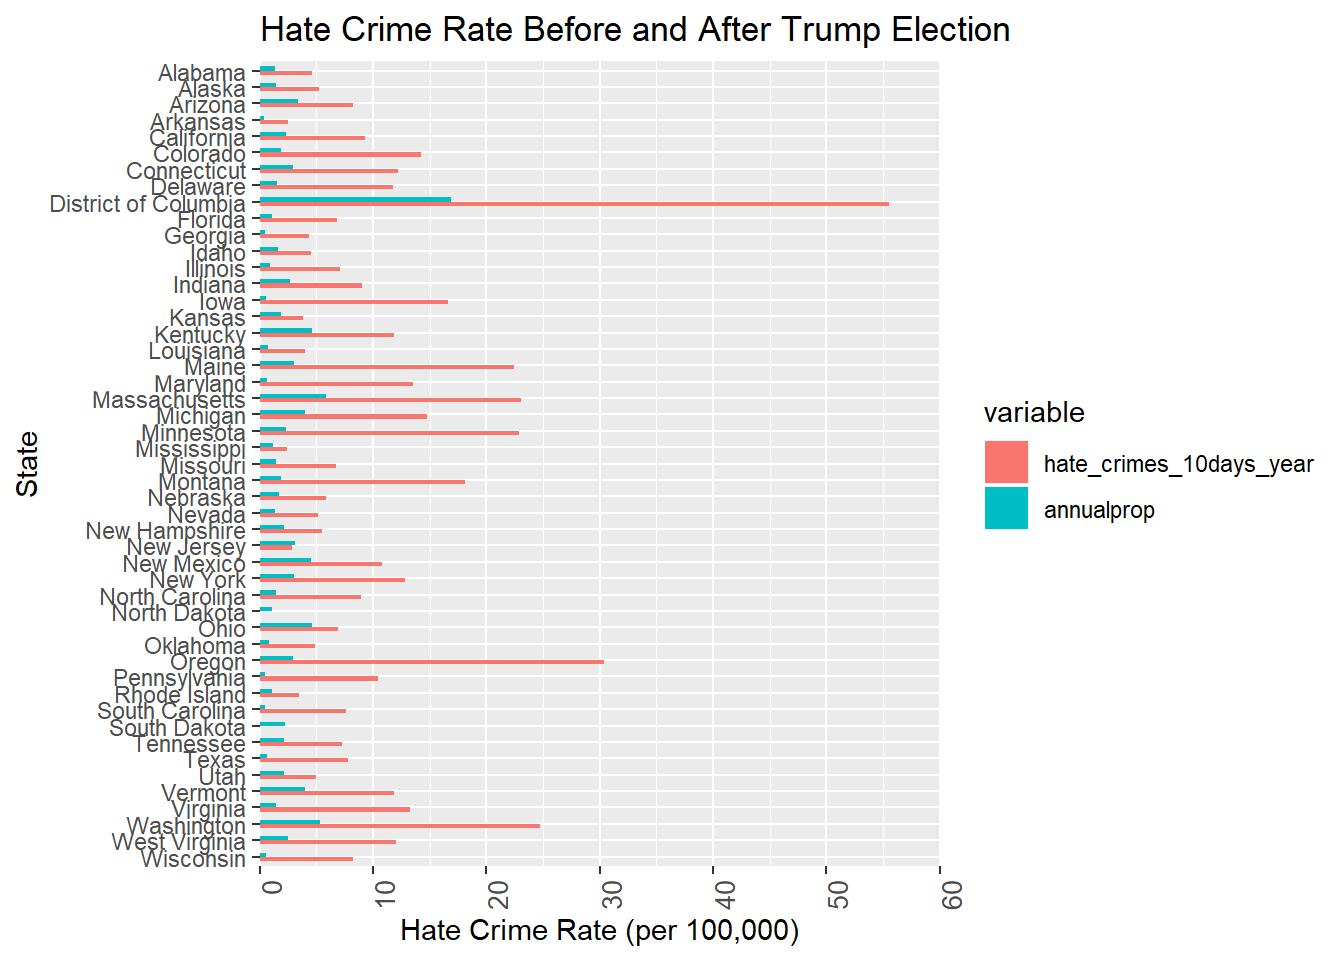
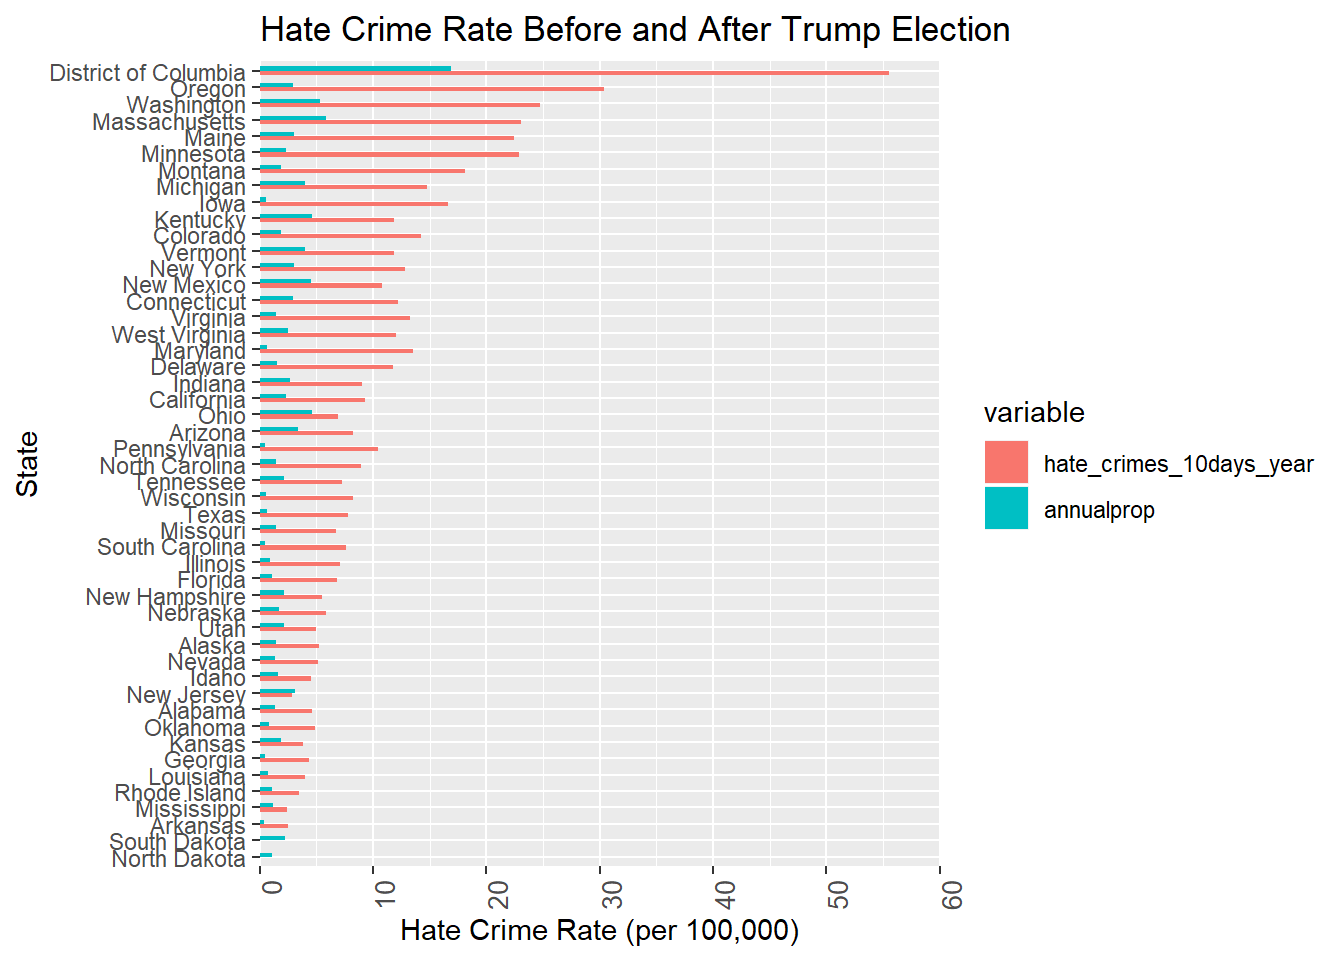
reorder the plot

Changed region(s): [[0.0312, 0.0625, 0.6562, 0.9062], [0.2188, 0.3125, 0.375, 0.5312], [0.2188, 0.6875, 0.4375, 0.7188]]

diff --git a/voting.html b/voting.html
@@ -235,8 +235,8 @@ $(document).ready(function () {
 <p><img src="voting_files/figure-html/unnamed-chunk-4-1.png" width="672" style="display: block; margin: auto;" /></p>
 <p>The plot above compares the hate crime rates before and after Trump’s election. The green portion depicts the rate for 2016. The red bar represents the hate crime rate in the 10 days after Trump’s election, extrapolated into a year rate (for comparison purposes). As can be seen by the plot, the hate crime rate increased substantially in the days after Trump’s election for most states. D.C. experienced the greatest increase, most likely due to the fact that D.C. is the political hub in the U.S.</p>
 <p><br></p>
-<div id="htmlwidget-f534f4e70c72b21dff35" style="width:672px;height:480px;" class="plotly html-widget"></div>
-<script type="application/json" data-for="htmlwidget-f534f4e70c72b21dff35">{"x":{"visdat":{"4dc5e2d55a4":["function () ","plotlyVisDat"]},"cur_data":"4dc5e2d55a4","attrs":{"4dc5e2d55a4":{"locationmode":"USA-states","alpha_stroke":1,"sizes":[10,100],"spans":[1,20],"z":{},"text":{},"locations":{},"color":{},"colors":"Reds","marker":{"line":{"color":"rgba(190,190,190,1)","width":1}},"inherit":true}},"layout":{"margin":{"b":40,"l":60,"t":25,"r":10},"mapType":"geo","scene":{"zaxis":{"title":"crime_rate"}},"geo":{"domain":{"x":[0,1],"y":[0,1]},"scope":"usa","projection":{"type":"albers usa"},"showlakes":false},"hovermode":"closest","showlegend":false,"legend":{"yanchor":"top","y":0.5},"title":"Hate crime rate in 2016 all over U.S. "},"source":"A","config":{"modeBarButtonsToAdd":[{"name":"Collaborate","icon":{"width":1000,"ascent":500,"descent":-50,"path":"M487 375c7-10 9-23 5-36l-79-259c-3-12-11-23-22-31-11-8-22-12-35-12l-263 0c-15 0-29 5-43 15-13 10-23 23-28 37-5 13-5 25-1 37 0 0 0 3 1 7 1 5 1 8 1 11 0 2 0 4-1 6 0 3-1 5-1 6 1 2 2 4 3 6 1 2 2 4 4 6 2 3 4 5 5 7 5 7 9 16 13 26 4 10 7 19 9 26 0 2 0 5 0 9-1 4-1 6 0 8 0 2 2 5 4 8 3 3 5 5 5 7 4 6 8 15 12 26 4 11 7 19 7 26 1 1 0 4 0 9-1 4-1 7 0 8 1 2 3 5 6 8 4 4 6 6 6 7 4 5 8 13 13 24 4 11 7 20 7 28 1 1 0 4 0 7-1 3-1 6-1 7 0 2 1 4 3 6 1 1 3 4 5 6 2 3 3 5 5 6 1 2 3 5 4 9 2 3 3 7 5 10 1 3 2 6 4 10 2 4 4 7 6 9 2 3 4 5 7 7 3 2 7 3 11 3 3 0 8 0 13-1l0-1c7 2 12 2 14 2l218 0c14 0 25-5 32-16 8-10 10-23 6-37l-79-259c-7-22-13-37-20-43-7-7-19-10-37-10l-248 0c-5 0-9-2-11-5-2-3-2-7 0-12 4-13 18-20 41-20l264 0c5 0 10 2 16 5 5 3 8 6 10 11l85 282c2 5 2 10 2 17 7-3 13-7 17-13z m-304 0c-1-3-1-5 0-7 1-1 3-2 6-2l174 0c2 0 4 1 7 2 2 2 4 4 5 7l6 18c0 3 0 5-1 7-1 1-3 2-6 2l-173 0c-3 0-5-1-8-2-2-2-4-4-4-7z m-24-73c-1-3-1-5 0-7 2-2 3-2 6-2l174 0c2 0 5 0 7 2 3 2 4 4 5 7l6 18c1 2 0 5-1 6-1 2-3 3-5 3l-174 0c-3 0-5-1-7-3-3-1-4-4-5-6z"},"click":"function(gd) { \n        // is this being viewed in RStudio?\n        if (location.search == '?viewer_pane=1') {\n          alert('To learn about plotly for collaboration, visit:\\n https://cpsievert.github.io/plotly_book/plot-ly-for-collaboration.html');\n        } else {\n          window.open('https://cpsievert.github.io/plotly_book/plot-ly-for-collaboration.html', '_blank');\n        }\n      }"}],"cloud":false},"data":[{"colorbar":{"title":"Hate crime rate ","ticklen":2,"len":0.5,"lenmode":"fraction","y":1,"yanchor":"top"},"colorscale":[["0","rgba(255,245,240,1)"],["0.0276381501808651","rgba(255,240,233,1)"],["0.0291350844947359","rgba(255,240,233,1)"],["0.0331604121426014","rgba(255,239,232,1)"],["0.0368979147901257","rgba(255,239,231,1)"],["0.0462814299368298","rgba(255,237,229,1)"],["0.0578460434229595","rgba(255,235,226,1)"],["0.0656081980995609","rgba(255,234,224,1)"],["0.0781357869275092","rgba(255,232,221,1)"],["0.0848442765868411","rgba(255,231,220,1)"],["0.0863228382646843","rgba(255,230,219,1)"],["0.0928963955658705","rgba(254,229,218,1)"],["0.0994352614608665","rgba(254,228,216,1)"],["0.112143104206994","rgba(254,226,213,1)"],["0.126997908109786","rgba(254,223,209,1)"],["0.13139983231937","rgba(254,222,207,1)"],["0.137574915231338","rgba(254,220,205,1)"],["0.154340895505053","rgba(254,215,198,1)"],["0.174590813352765","rgba(254,209,190,1)"],["0.178296121547066","rgba(254,208,189,1)"],["0.194468249085437","rgba(254,203,183,1)"],["0.239264076066464","rgba(252,190,165,1)"],["0.272379802797908","rgba(252,180,152,1)"],["0.311517159113247","rgba(253,167,138,1)"],["1","rgba(103,0,13,1)"]],"showscale":true,"locationmode":"USA-states","z":[1.3808898651561,1.48937264916067,3.34805113558664,0.420514815262585,2.37241981189183,1.88413647670102,2.96383119359633,1.57552267964897,16.8827165024884,1.06807949849217,0.474675629191675,0,1.60414463443326,0.897081333757898,2.71343987643412,0.545959163539177,1.89091504080132,4.65270703981678,0.730244567331498,3.00417806063783,0.614980901518787,5.89066918001885,4.05170339094064,2.29774753161092,1.19565328787573,1.44502572063679,1.91929738361381,1.67873732959462,1.39453031198704,2.19578565995122,3.15335468296094,4.50639387962382,3.01436916852553,1.45875512794317,1.05611537004302,4.61693441404417,0.852912632023768,2.93130321795085,0.482428071556262,1.13590540179814,0.465873547335386,2.28618749023607,2.13495501709919,0.638849301766425,2.18964298866362,4.00260008901783,1.45040839696109,5.3143966868925,2.52873194577905,0.601473858619324,0.539135873022719],"text":["Alabama <br> share for trump 59.90%","Alaska <br> share for trump 54.20%","Arizona <br> share for trump 52.70%","Arkansas <br> share for trump 60.10%","California <br> share for trump 36.40%","Colorado <br> share for trump 45.70%","Connecticut <br> share for trump 40.30%","Delaware <br> share for trump 39.40%","District of Columbia <br> share for trump 7.40%","Florida <br> share for trump 48.30%","Georgia <br> share for trump 52.20%","Hawaii <br> share for trump 33.1%","Idaho <br> share for trump 64.10%","Illinois <br> share for trump 40.20%","Indiana <br> share for trump 53.70%","Iowa <br> share for trump 46.00%","Kansas <br> share for trump 59.40%","Kentucky <br> share for trump 60.20%","Louisiana <br> share for trump 57.10%","Maine <br> share for trump 40.70%","Maryland <br> share for trump 35.10%","Massachusetts <br> share for trump 37.20%","Michigan <br> share for trump 44.60%","Minnesota <br> share for trump 44.50%","Mississippi <br> share for trump 54.40%","Missouri <br> share for trump 53.50%","Montana <br> share for trump 55.20%","Nebraska <br> share for trump 59.30%","Nevada <br> share for trump 44.70%","New Hampshire <br> share for trump 46.30%","New Jersey <br> share for trump 39.70%","New Mexico <br> share for trump 42.20%","New York <br> share for trump 34.60%","North Carolina <br> share for trump 49.80%","North Dakota <br> share for trump 57.90%","Ohio <br> share for trump 47.40%","Oklahoma <br> share for trump 66.10%","Oregon <br> share for trump 41.80%","Pennsylvania <br> share for trump 46.30%","Rhode Island <br> share for trump 35.10%","South Carolina <br> share for trump 54.50%","South Dakota <br> share for trump 57.40%","Tennessee <br> share for trump 59.00%","Texas <br> share for trump 56.10%","Utah <br> share for trump 72.10%","Vermont <br> share for trump 31.10%","Virginia <br> share for trump 46.60%","Washington <br> share for trump 40.90%","West Virginia <br> share for trump 62.00%","Wisconsin <br> share for trump 45.60%","Wyoming <br> share for trump 67.80%"],"locations":["AL","AK","AZ","AR","CA","CO","CT","DE","DC","FL","GA","HI","ID","IL","IN","IA","KS","KY","LA","ME","MD","MA","MI","MN","MS","MO","MT","NE","NV","NH","NJ","NM","NY","NC","ND","OH","OK","OR","PA","RI","SC","SD","TN","TX","UT","VT","VA","WA","WV","WI","WY"],"marker":{"line":{"colorbar":{"title":"","ticklen":2},"cmin":0,"cmax":16.8827165024884,"colorscale":[["0","rgba(255,245,240,1)"],["0.0276381501808651","rgba(255,240,233,1)"],["0.0291350844947359","rgba(255,240,233,1)"],["0.0331604121426014","rgba(255,239,232,1)"],["0.0368979147901257","rgba(255,239,231,1)"],["0.0462814299368298","rgba(255,237,229,1)"],["0.0578460434229595","rgba(255,235,226,1)"],["0.0656081980995609","rgba(255,234,224,1)"],["0.0781357869275092","rgba(255,232,221,1)"],["0.0848442765868411","rgba(255,231,220,1)"],["0.0863228382646843","rgba(255,230,219,1)"],["0.0928963955658705","rgba(254,229,218,1)"],["0.0994352614608665","rgba(254,228,216,1)"],["0.112143104206994","rgba(254,226,213,1)"],["0.126997908109786","rgba(254,223,209,1)"],["0.13139983231937","rgba(254,222,207,1)"],["0.137574915231338","rgba(254,220,205,1)"],["0.154340895505053","rgba(254,215,198,1)"],["0.174590813352765","rgba(254,209,190,1)"],["0.178296121547066","rgba(254,208,189,1)"],["0.194468249085437","rgba(254,203,183,1)"],["0.239264076066464","rgba(252,190,165,1)"],["0.272379802797908","rgba(252,180,152,1)"],["0.311517159113247","rgba(253,167,138,1)"],["1","rgba(103,0,13,1)"]],"showscale":false,"color":"rgba(190,190,190,1)","width":1}},"type":"choropleth","geo":"geo","frame":null}],"highlight":{"on":"plotly_click","persistent":false,"dynamic":false,"selectize":false,"opacityDim":0.2,"selected":{"opacity":1},"debounce":0},"base_url":"https://plot.ly"},"evals":["config.modeBarButtonsToAdd.0.click"],"jsHooks":[]}</script>
+<div id="htmlwidget-97579c6af2f2526787b7" style="width:672px;height:480px;" class="plotly html-widget"></div>
+<script type="application/json" data-for="htmlwidget-97579c6af2f2526787b7">{"x":{"visdat":{"2c6c2dc0601d":["function () ","plotlyVisDat"]},"cur_data":"2c6c2dc0601d","attrs":{"2c6c2dc0601d":{"locationmode":"USA-states","alpha_stroke":1,"sizes":[10,100],"spans":[1,20],"z":{},"text":{},"locations":{},"color":{},"colors":"Reds","marker":{"line":{"color":"rgba(190,190,190,1)","width":1}},"inherit":true}},"layout":{"margin":{"b":40,"l":60,"t":25,"r":10},"mapType":"geo","scene":{"zaxis":{"title":"crime_rate"}},"geo":{"domain":{"x":[0,1],"y":[0,1]},"scope":"usa","projection":{"type":"albers usa"},"showlakes":false},"hovermode":"closest","showlegend":false,"legend":{"yanchor":"top","y":0.5},"title":"Hate crime rate in 2016 all over U.S. "},"source":"A","config":{"modeBarButtonsToAdd":[{"name":"Collaborate","icon":{"width":1000,"ascent":500,"descent":-50,"path":"M487 375c7-10 9-23 5-36l-79-259c-3-12-11-23-22-31-11-8-22-12-35-12l-263 0c-15 0-29 5-43 15-13 10-23 23-28 37-5 13-5 25-1 37 0 0 0 3 1 7 1 5 1 8 1 11 0 2 0 4-1 6 0 3-1 5-1 6 1 2 2 4 3 6 1 2 2 4 4 6 2 3 4 5 5 7 5 7 9 16 13 26 4 10 7 19 9 26 0 2 0 5 0 9-1 4-1 6 0 8 0 2 2 5 4 8 3 3 5 5 5 7 4 6 8 15 12 26 4 11 7 19 7 26 1 1 0 4 0 9-1 4-1 7 0 8 1 2 3 5 6 8 4 4 6 6 6 7 4 5 8 13 13 24 4 11 7 20 7 28 1 1 0 4 0 7-1 3-1 6-1 7 0 2 1 4 3 6 1 1 3 4 5 6 2 3 3 5 5 6 1 2 3 5 4 9 2 3 3 7 5 10 1 3 2 6 4 10 2 4 4 7 6 9 2 3 4 5 7 7 3 2 7 3 11 3 3 0 8 0 13-1l0-1c7 2 12 2 14 2l218 0c14 0 25-5 32-16 8-10 10-23 6-37l-79-259c-7-22-13-37-20-43-7-7-19-10-37-10l-248 0c-5 0-9-2-11-5-2-3-2-7 0-12 4-13 18-20 41-20l264 0c5 0 10 2 16 5 5 3 8 6 10 11l85 282c2 5 2 10 2 17 7-3 13-7 17-13z m-304 0c-1-3-1-5 0-7 1-1 3-2 6-2l174 0c2 0 4 1 7 2 2 2 4 4 5 7l6 18c0 3 0 5-1 7-1 1-3 2-6 2l-173 0c-3 0-5-1-8-2-2-2-4-4-4-7z m-24-73c-1-3-1-5 0-7 2-2 3-2 6-2l174 0c2 0 5 0 7 2 3 2 4 4 5 7l6 18c1 2 0 5-1 6-1 2-3 3-5 3l-174 0c-3 0-5-1-7-3-3-1-4-4-5-6z"},"click":"function(gd) { \n        // is this being viewed in RStudio?\n        if (location.search == '?viewer_pane=1') {\n          alert('To learn about plotly for collaboration, visit:\\n https://cpsievert.github.io/plotly_book/plot-ly-for-collaboration.html');\n        } else {\n          window.open('https://cpsievert.github.io/plotly_book/plot-ly-for-collaboration.html', '_blank');\n        }\n      }"}],"cloud":false},"data":[{"colorbar":{"title":"Hate crime rate ","ticklen":2,"len":0.5,"lenmode":"fraction","y":1,"yanchor":"top"},"colorscale":[["0","rgba(255,245,240,1)"],["0.0276381501808651","rgba(255,240,233,1)"],["0.0291350844947359","rgba(255,240,233,1)"],["0.0331604121426014","rgba(255,239,232,1)"],["0.0368979147901257","rgba(255,239,231,1)"],["0.0462814299368298","rgba(255,237,229,1)"],["0.0578460434229595","rgba(255,235,226,1)"],["0.0656081980995609","rgba(255,234,224,1)"],["0.0781357869275092","rgba(255,232,221,1)"],["0.0848442765868411","rgba(255,231,220,1)"],["0.0863228382646843","rgba(255,230,219,1)"],["0.0928963955658705","rgba(254,229,218,1)"],["0.0994352614608665","rgba(254,228,216,1)"],["0.112143104206994","rgba(254,226,213,1)"],["0.126997908109786","rgba(254,223,209,1)"],["0.13139983231937","rgba(254,222,207,1)"],["0.137574915231338","rgba(254,220,205,1)"],["0.154340895505053","rgba(254,215,198,1)"],["0.174590813352765","rgba(254,209,190,1)"],["0.178296121547066","rgba(254,208,189,1)"],["0.194468249085437","rgba(254,203,183,1)"],["0.239264076066464","rgba(252,190,165,1)"],["0.272379802797908","rgba(252,180,152,1)"],["0.311517159113247","rgba(253,167,138,1)"],["1","rgba(103,0,13,1)"]],"showscale":true,"locationmode":"USA-states","z":[1.3808898651561,1.48937264916067,3.34805113558664,0.420514815262585,2.37241981189183,1.88413647670102,2.96383119359633,1.57552267964897,16.8827165024884,1.06807949849217,0.474675629191675,0,1.60414463443326,0.897081333757898,2.71343987643412,0.545959163539177,1.89091504080132,4.65270703981678,0.730244567331498,3.00417806063783,0.614980901518787,5.89066918001885,4.05170339094064,2.29774753161092,1.19565328787573,1.44502572063679,1.91929738361381,1.67873732959462,1.39453031198704,2.19578565995122,3.15335468296094,4.50639387962382,3.01436916852553,1.45875512794317,1.05611537004302,4.61693441404417,0.852912632023768,2.93130321795085,0.482428071556262,1.13590540179814,0.465873547335386,2.28618749023607,2.13495501709919,0.638849301766425,2.18964298866362,4.00260008901783,1.45040839696109,5.3143966868925,2.52873194577905,0.601473858619324,0.539135873022719],"text":["Alabama <br> share for trump 59.90%","Alaska <br> share for trump 54.20%","Arizona <br> share for trump 52.70%","Arkansas <br> share for trump 60.10%","California <br> share for trump 36.40%","Colorado <br> share for trump 45.70%","Connecticut <br> share for trump 40.30%","Delaware <br> share for trump 39.40%","District of Columbia <br> share for trump 7.40%","Florida <br> share for trump 48.30%","Georgia <br> share for trump 52.20%","Hawaii <br> share for trump 33.1%","Idaho <br> share for trump 64.10%","Illinois <br> share for trump 40.20%","Indiana <br> share for trump 53.70%","Iowa <br> share for trump 46.00%","Kansas <br> share for trump 59.40%","Kentucky <br> share for trump 60.20%","Louisiana <br> share for trump 57.10%","Maine <br> share for trump 40.70%","Maryland <br> share for trump 35.10%","Massachusetts <br> share for trump 37.20%","Michigan <br> share for trump 44.60%","Minnesota <br> share for trump 44.50%","Mississippi <br> share for trump 54.40%","Missouri <br> share for trump 53.50%","Montana <br> share for trump 55.20%","Nebraska <br> share for trump 59.30%","Nevada <br> share for trump 44.70%","New Hampshire <br> share for trump 46.30%","New Jersey <br> share for trump 39.70%","New Mexico <br> share for trump 42.20%","New York <br> share for trump 34.60%","North Carolina <br> share for trump 49.80%","North Dakota <br> share for trump 57.90%","Ohio <br> share for trump 47.40%","Oklahoma <br> share for trump 66.10%","Oregon <br> share for trump 41.80%","Pennsylvania <br> share for trump 46.30%","Rhode Island <br> share for trump 35.10%","South Carolina <br> share for trump 54.50%","South Dakota <br> share for trump 57.40%","Tennessee <br> share for trump 59.00%","Texas <br> share for trump 56.10%","Utah <br> share for trump 72.10%","Vermont <br> share for trump 31.10%","Virginia <br> share for trump 46.60%","Washington <br> share for trump 40.90%","West Virginia <br> share for trump 62.00%","Wisconsin <br> share for trump 45.60%","Wyoming <br> share for trump 67.80%"],"locations":["AL","AK","AZ","AR","CA","CO","CT","DE","DC","FL","GA","HI","ID","IL","IN","IA","KS","KY","LA","ME","MD","MA","MI","MN","MS","MO","MT","NE","NV","NH","NJ","NM","NY","NC","ND","OH","OK","OR","PA","RI","SC","SD","TN","TX","UT","VT","VA","WA","WV","WI","WY"],"marker":{"line":{"colorbar":{"title":"","ticklen":2},"cmin":0,"cmax":16.8827165024884,"colorscale":[["0","rgba(255,245,240,1)"],["0.0276381501808651","rgba(255,240,233,1)"],["0.0291350844947359","rgba(255,240,233,1)"],["0.0331604121426014","rgba(255,239,232,1)"],["0.0368979147901257","rgba(255,239,231,1)"],["0.0462814299368298","rgba(255,237,229,1)"],["0.0578460434229595","rgba(255,235,226,1)"],["0.0656081980995609","rgba(255,234,224,1)"],["0.0781357869275092","rgba(255,232,221,1)"],["0.0848442765868411","rgba(255,231,220,1)"],["0.0863228382646843","rgba(255,230,219,1)"],["0.0928963955658705","rgba(254,229,218,1)"],["0.0994352614608665","rgba(254,228,216,1)"],["0.112143104206994","rgba(254,226,213,1)"],["0.126997908109786","rgba(254,223,209,1)"],["0.13139983231937","rgba(254,222,207,1)"],["0.137574915231338","rgba(254,220,205,1)"],["0.154340895505053","rgba(254,215,198,1)"],["0.174590813352765","rgba(254,209,190,1)"],["0.178296121547066","rgba(254,208,189,1)"],["0.194468249085437","rgba(254,203,183,1)"],["0.239264076066464","rgba(252,190,165,1)"],["0.272379802797908","rgba(252,180,152,1)"],["0.311517159113247","rgba(253,167,138,1)"],["1","rgba(103,0,13,1)"]],"showscale":false,"color":"rgba(190,190,190,1)","width":1}},"type":"choropleth","geo":"geo","frame":null}],"highlight":{"on":"plotly_click","persistent":false,"dynamic":false,"selectize":false,"opacityDim":0.2,"selected":{"opacity":1},"debounce":0},"base_url":"https://plot.ly"},"evals":["config.modeBarButtonsToAdd.0.click"],"jsHooks":[]}</script>
 <p>This heat map shows each state’s hate crime rate for the year 2016 and its share of Trump voters. Though our group expected to see a higher rate for those states with a large proportion of Trump voters, we instead saw little relationship between the two variables. Some states had a high percent of Trump voters, but a relatively small hate crime rate (such as Oklahoma), while others states had both a high rate and a high share of Trump voters (such as Kentucky).</p>
 
 
